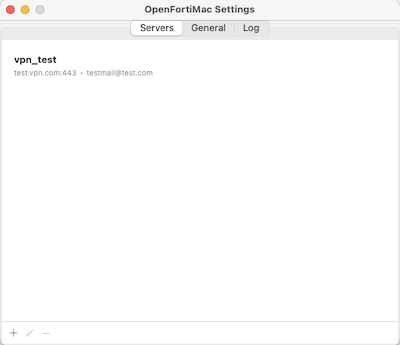
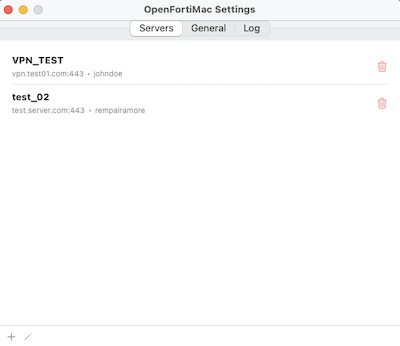
releasing v.1.2.0

diff --git a/OpenFortiMac/SettingsView.swift b/OpenFortiMac/SettingsView.swift
@@ -8,6 +8,8 @@ struct SettingsView: View {
     @State private var showingAddServer = false
     @State private var showingEditServer = false
     @State private var selectedTab = 0
+    @State private var serverToDelete: VPNServer?
+    @State private var showingDeleteConfirm = false
     
     var body: some View {
         TabView(selection: $selectedTab) {
@@ -30,13 +32,24 @@ struct SettingsView: View {
                 .tag(2)
         }
         .frame(width: 540, height: 440)
-        .sheet(isPresented: $showingAddServer) {
+        .sheet(isPresented: $showingAddServer, onDismiss: { viewModel.loadServers() }) {
             ServerEditView(viewModel: viewModel, server: nil)
         }
-        .sheet(isPresented: $showingEditServer) {
+        .sheet(isPresented: $showingEditServer, onDismiss: { viewModel.loadServers() }) {
             if let server = selectedServer {
                 ServerEditView(viewModel: viewModel, server: server)
             }
+        }
+        .alert("Delete Server", isPresented: $showingDeleteConfirm, presenting: serverToDelete) { server in
+            Button("Cancel", role: .cancel) {}
+            Button("Delete", role: .destructive) {
+                if let index = viewModel.servers.firstIndex(where: { $0.id == server.id }) {
+                    viewModel.deleteServers(at: IndexSet(integer: index))
+                    selectedServer = nil
+                }
+            }
+        } message: { server in
+            Text("Are you sure you want to delete \"\(server.name)\"?")
         }
     }
     
@@ -46,13 +59,30 @@ struct SettingsView: View {
         VStack(spacing: 0) {
             List(selection: $selectedServer) {
                 ForEach(viewModel.servers) { server in
-                    ServerRowView(server: server)
-                        .tag(server)
+                    HStack {
+                        ServerRowView(server: server)
+                        Spacer()
+                        Button(action: {
+                            serverToDelete = server
+                            showingDeleteConfirm = true
+                        }) {
+                            Image(systemName: "trash")
+                                .foregroundColor(.red.opacity(0.7))
+                        }
+                        .buttonStyle(.borderless)
+                        .help("Delete Server")
+                    }
+                    .contentShape(Rectangle())
+                    .tag(server)
+                    .onTapGesture(count: 2) {
+                        selectedServer = server
+                        showingEditServer = true
+                    }
                 }
-                .onDelete(perform: viewModel.deleteServers)
                 .onMove(perform: viewModel.moveServers)
             }
             .listStyle(.inset)
+            .id(viewModel.refreshID)
             
             Divider()
             
@@ -73,19 +103,6 @@ struct SettingsView: View {
                 .buttonStyle(.borderless)
                 .disabled(selectedServer == nil)
                 .help("Edit Server")
-                
-                Button(action: {
-                    if let server = selectedServer,
-                       let index = viewModel.servers.firstIndex(where: { $0.id == server.id }) {
-                        viewModel.deleteServers(at: IndexSet(integer: index))
-                        selectedServer = nil
-                    }
-                }) {
-                    Image(systemName: "minus")
-                }
-                .buttonStyle(.borderless)
-                .disabled(selectedServer == nil)
-                .help("Remove Server")
                 
                 Spacer()
             }
@@ -330,7 +347,6 @@ struct ServerEditView: View {
     private func validate() -> Bool {
         validationError = nil
         
-        // Trim whitespace
         let trimmedHost = host.trimmingCharacters(in: .whitespacesAndNewlines)
         if trimmedHost.isEmpty || trimmedHost.contains(" ") {
             validationError = "Host cannot be empty or contain spaces"
@@ -352,7 +368,6 @@ struct ServerEditView: View {
             return false
         }
         
-        // Apply trimmed values
         host = trimmedHost
         
         return true
@@ -371,7 +386,6 @@ struct ServerEditView: View {
             id: server?.id
         )
         
-        // Save password to Keychain
         if !password.isEmpty {
             _ = KeychainHelper.save(password: password, for: newServer.id)
         }
@@ -389,6 +403,7 @@ struct ServerEditView: View {
 class SettingsViewModel: ObservableObject {
     @Published var servers: [VPNServer] = []
     @Published var logs: [String] = []
+    @Published var refreshID = UUID()
     @Published var openfortivpnPath: String = "" {
         didSet {
             if oldValue != openfortivpnPath {
@@ -432,6 +447,7 @@ class SettingsViewModel: ObservableObject {
     }
     
     func loadServers() {
+        servers = []
         servers = ConfigManager.shared.config.servers
     }
     
@@ -446,12 +462,14 @@ class SettingsViewModel: ObservableObject {
     func addServer(_ server: VPNServer) {
         servers.append(server)
         saveConfig()
+        refreshID = UUID()
     }
     
     func updateServer(_ oldServer: VPNServer, with newServer: VPNServer) {
         if let index = servers.firstIndex(where: { $0.id == oldServer.id }) {
             servers[index] = newServer
             saveConfig()
+            refreshID = UUID()
         }
     }
     
@@ -461,6 +479,7 @@ class SettingsViewModel: ObservableObject {
         }
         servers.remove(atOffsets: offsets)
         saveConfig()
+        refreshID = UUID()
     }
     
     func moveServers(from source: IndexSet, to destination: Int) {

diff --git a/OpenFortiMac/AppDelegate.swift b/OpenFortiMac/AppDelegate.swift
@@ -43,7 +43,8 @@ class AppDelegate: NSObject, NSApplicationDelegate, NSWindowDelegate {
         let menu = NSMenu()
         
         // Status
-        let statusMenuItem = NSMenuItem(title: statusTitle(), action: nil, keyEquivalent: "")
+        let statusMenuItem = NSMenuItem(title: "", action: nil, keyEquivalent: "")
+        statusMenuItem.attributedTitle = statusAttributedTitle()
         statusMenuItem.isEnabled = false
         menu.addItem(statusMenuItem)
         
@@ -66,12 +67,18 @@ class AppDelegate: NSObject, NSApplicationDelegate, NSWindowDelegate {
                     keyEquivalent: ""
                 )
                 serverItem.tag = index
-                serverItem.target = self
                 
-                if case .connected(let connectedName) = vpnManager.state, connectedName == server.name {
-                    serverItem.state = .on
+                if isDisconnected {
+                    serverItem.target = self
+                    serverItem.action = #selector(connectToServer(_:))
+                } else {
+                    serverItem.target = nil
+                    serverItem.action = nil
+                    if case .connected(let connectedName) = vpnManager.state, connectedName == server.name {
+                        serverItem.state = .on
+                    }
                 }
-                serverItem.isEnabled = isDisconnected
+
                 
                 menu.addItem(serverItem)
             }
@@ -115,6 +122,36 @@ class AppDelegate: NSObject, NSApplicationDelegate, NSWindowDelegate {
         case .disconnecting:
             return "● Disconnecting..."
         }
+    }
+    
+    private func statusAttributedTitle() -> NSAttributedString {
+        let dot: String
+        let dotColor: NSColor
+        let text: String
+        
+        switch vpnManager.state {
+        case .disconnected:
+            dot = "● "
+            dotColor = .secondaryLabelColor
+            text = "Disconnected"
+        case .connecting:
+            dot = "● "
+            dotColor = .systemOrange
+            text = "Connecting..."
+        case .connected(let serverName):
+            dot = "● "
+            dotColor = .systemGreen
+            text = "Connected: \(serverName)"
+        case .disconnecting:
+            dot = "● "
+            dotColor = .systemOrange
+            text = "Disconnecting..."
+        }
+        
+        let result = NSMutableAttributedString()
+        result.append(NSAttributedString(string: dot, attributes: [.foregroundColor: dotColor]))
+        result.append(NSAttributedString(string: text, attributes: [.foregroundColor: NSColor.labelColor]))
+        return result
     }
     
     private func updateStatusIcon() {

diff --git a/CHANGELOG.md b/CHANGELOG.md
@@ -1,0 +1,23 @@
+# Changelog
+
+## v1.2.0
+
+### Added
+- Colored status dot in the menu bar (green when connected, orange when connecting)
+- Server names are greyed out in the menu bar while connected
+- Double-click a server profile to edit it
+- Trash icon on each server row with delete confirmation dialog
+
+### Fixed
+- Server list now refreshes immediately after editing or adding a profile
+
+## v1.1.0
+
+- Initial release
+- Native macOS menu bar app for OpenFortiVPN
+- Multiple VPN server profiles with Keychain password storage
+- JSON configuration with GUI editor
+- Connection log viewer
+- Native macOS notifications
+- Launch at Login support
+- App icon
